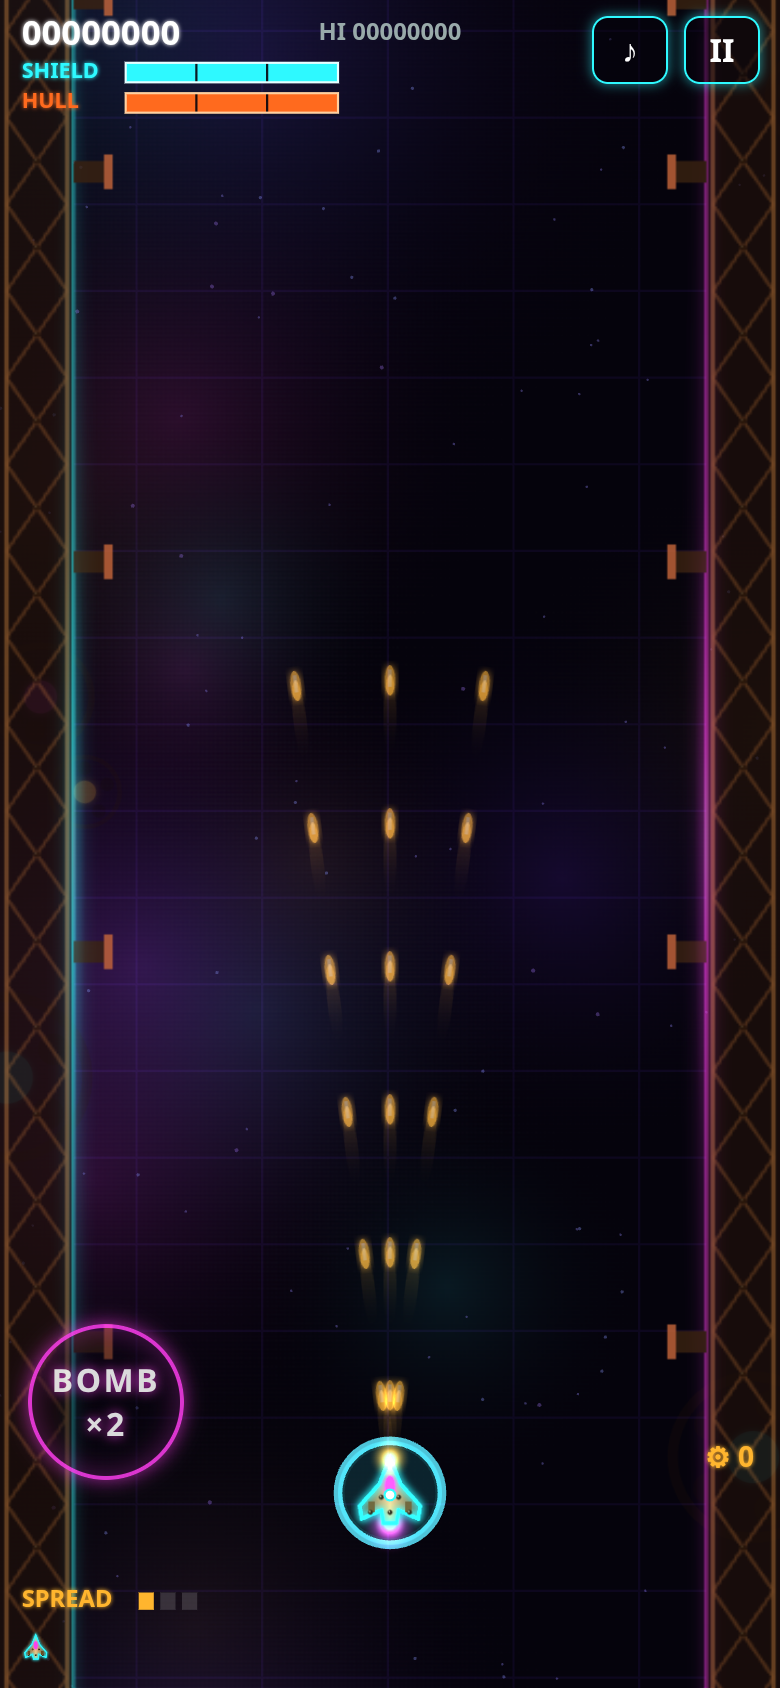
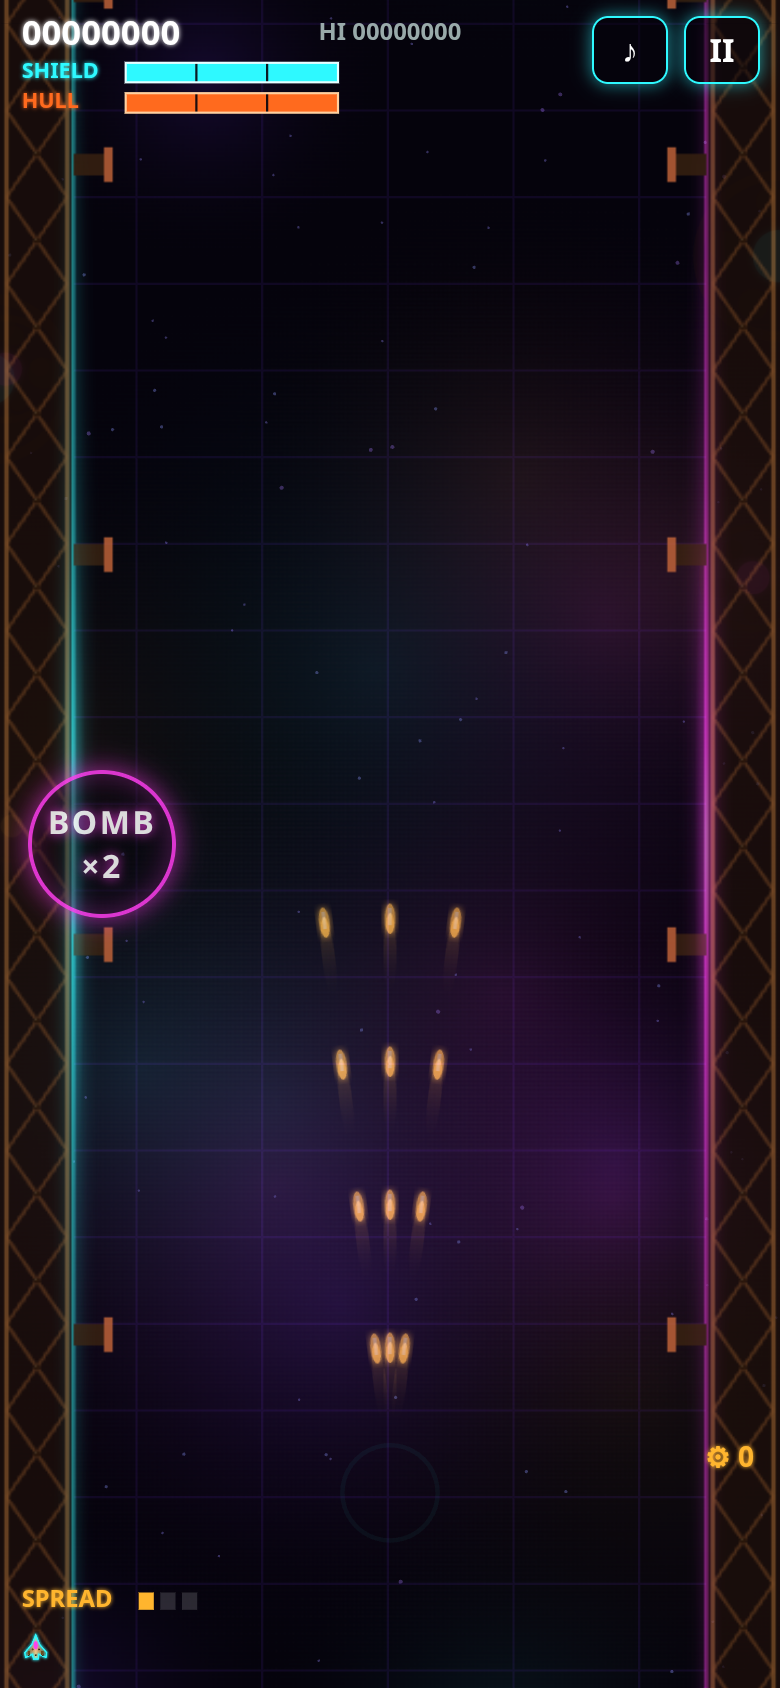
v1.1.1: BOMB button mid-left (vertically centred, scales, safe margins), reset saved side

diff --git a/index.html b/index.html
@@ -1,5 +1,5 @@
 <!doctype html>
-<!-- NEON GEARSTORM v1.1 — © 2026 Rainwater Games (Jeff Rainwater). All rights reserved. -->
+<!-- NEON GEARSTORM v1.1.1 — © 2026 Rainwater Games (Jeff Rainwater). All rights reserved. -->
 <html lang="en"><head><meta charset="utf-8">
 <meta name="viewport" content="width=device-width,initial-scale=1,maximum-scale=1,user-scalable=no,viewport-fit=cover">
 <meta name="author" content="Rainwater Games - Jeff Rainwater">
@@ -43,9 +43,9 @@ h2{font-size:38px;margin:0 0 10px;letter-spacing:.12em}
 #hud button{position:fixed;z-index:10;font:inherit;font-weight:bold;color:#fff;background:rgba(5,3,12,.45);cursor:pointer}
 #bPause,#bMute{top:max(8px,env(safe-area-inset-top));width:38px;height:34px;border:1.5px solid #2ef9ff;border-radius:8px;box-shadow:0 0 8px rgba(46,249,255,.5);font-size:14px}
 #bPause{right:10px}#bMute{right:56px}
-#bBomb{left:14px;right:auto;bottom:calc(104px + env(safe-area-inset-bottom,0px));width:78px;height:78px;border-radius:50%;border:2px solid #ff3df0;box-shadow:0 0 14px rgba(255,61,240,.7),inset 0 0 14px rgba(255,61,240,.35);font-size:12px;letter-spacing:.08em;text-shadow:0 0 6px #ff3df0;opacity:.85}
+#bBomb{--bs:clamp(60px,19vmin,96px);left:calc(14px + env(safe-area-inset-left,0px));right:auto;bottom:auto;top:clamp(calc(110px + env(safe-area-inset-top,0px)),calc(50% - var(--bs)/2),calc(100% - var(--bs) - 24px - env(safe-area-inset-bottom,0px)));width:var(--bs);height:var(--bs);border-radius:50%;border:2px solid #ff3df0;box-shadow:0 0 14px rgba(255,61,240,.7),inset 0 0 14px rgba(255,61,240,.35);font-size:clamp(11px,2.9vmin,14px);letter-spacing:.08em;text-shadow:0 0 6px #ff3df0;opacity:.85}
 #bBomb.empty{opacity:.3}
-#bBomb.rside{right:14px;left:auto}
+#bBomb.rside{right:calc(14px + env(safe-area-inset-right,0px));left:auto}
 #bPause,#bMute{box-shadow:0 0 calc(6px + 12px*var(--p,0)) rgba(46,249,255,.6)}#bBomb{box-shadow:0 0 calc(10px + 18px*var(--p,0)) rgba(255,61,240,.75),inset 0 0 14px rgba(255,61,240,.35)}
 .pulse{animation:none;box-shadow:0 0 calc(12px + 18px*var(--p,0)) rgba(46,249,255,.7),inset 0 0 12px rgba(46,249,255,.3)}
 #hangar{justify-content:flex-start;background:rgba(5,3,12,.96);padding-top:max(18px,env(safe-area-inset-top))}
@@ -61,7 +61,7 @@ h2{font-size:38px;margin:0 0 10px;letter-spacing:.12em}
 <div id="splash"><div class="sp-t">RAINWATER GAMES</div><div class="dots"><i></i><i></i><i></i></div><div class="sp-t" style="font-size:10px;color:#889;text-shadow:none">LOADING</div></div>
 <canvas id="c"></canvas>
 <div id="hud" class="hide"><button id="bMute" aria-label="Mute">♪</button><button id="bPause" aria-label="Pause">II</button><button id="bBomb" aria-label="Bomb">BOMB</button></div>
-<div id="title" class="ov hide"><div class="ver" id="ver">v1.1</div>
+<div id="title" class="ov hide"><div class="ver" id="ver">v1.1.1</div>
  <svg class="gear" viewBox="-50 -50 100 100"><g fill="none" stroke="#ffb52e" stroke-width="4"><path d="M-6-46h12l2 10 8 3 8-6 9 8-6 9 3 8 10 2v12l-10 2-3 8 6 8-9 9-8-6-8 3-2 10h-12l-2-10-8-3-8 6-9-9 6-8-3-8-10-2v-12l10-2 3-8-6-9 9-8 8 6 8-3z"/><circle r="16" stroke="#2ef9ff"/><circle r="5" fill="#ff3df0" stroke="none"/></g></svg>
  <h1 class="logo"><span class="a">NEON</span><span class="b">GEARSTORM</span></h1>
  <div class="prod">A RAINWATER GAMES PRODUCTION</div>
@@ -86,5 +86,5 @@ h2{font-size:38px;margin:0 0 10px;letter-spacing:.12em}
  <div class="help" style="font-size:13px;color:#ccd;max-width:320px">NEON GEARSTORM contains flashing lights, strobe effects and rapidly pulsing colors that may trigger seizures for people with photosensitive epilepsy. Stop playing immediately if you feel unwell.</div><br>
  <button class="btn alt tog" id="pRF">REDUCE FLASHING: OFF</button><button class="btn" id="bPhotoOk">CONTINUE</button>
  <div class="help">You can change this any time in SETTINGS.</div></div>
-<script src="build/game.js?v=1.1"></script>
+<script src="build/game.js?v=1.1.1"></script>
 </body></html>

diff --git a/tools/v111bomb.js b/tools/v111bomb.js
@@ -1,0 +1,14 @@
+// v1.1.1 bomb-button check: mid-left (~50% height), safe margins, clear of SHIELD/HULL HUD + bottom HUD + ship, portrait & landscape; old saved RIGHT setting overridden.
+const puppeteer=require('/workspace/cr-test/node_modules/puppeteer-core');const U=process.argv[2]||'http://localhost:8765/';const sleep=ms=>new Promise(r=>setTimeout(r,ms));
+const VPS=[[412,915,'portrait-412x915'],[390,844,'portrait-390x844'],[360,640,'portrait-360x640'],[915,412,'landscape-915x412'],[1024,768,'tablet-1024x768']];
+(async()=>{const b=await puppeteer.launch({executablePath:'/usr/bin/google-chrome',headless:'new',args:['--no-sandbox','--use-angle=swiftshader','--enable-unsafe-swiftshader']});let all=true;const errs=[];
+ for(const [w,h,name] of VPS){const p=await b.newPage();p.on('pageerror',e=>errs.push(e.message));await p.setViewport({width:w,height:h,deviceScaleFactor:2,isMobile:true,hasTouch:true});
+  await p.goto(U,{waitUntil:'load'});await p.evaluate(()=>{localStorage.clear();localStorage.setItem('ngs_photo','1');localStorage.setItem('ngs_bside','R');localStorage.setItem('ngs_bside_mig','1');});
+  await p.goto(U+'?debug=autostart',{waitUntil:'load'});await sleep(500);await p.evaluate(()=>{if(NG.G.state!=='play')NG.startGame();NG.G.bombs=3;});await sleep(2200);
+  const r=await p.evaluate(()=>{const e=document.getElementById('bBomb'),c=document.querySelector('canvas'),q=e.getBoundingClientRect(),cr=c.getBoundingClientRect();const sc=cr.height/NG.H;
+   return {top:Math.round(q.top),bot:Math.round(q.bottom),left:Math.round(q.left),size:Math.round(q.width),mid:+((q.top+q.height/2)/innerHeight).toFixed(3),saved:localStorage.getItem('ngs_bside'),rside:e.classList.contains('rside'),
+    hudBarsBottom:Math.round(cr.top+72*sc),hudTextTop:Math.round(cr.top+(NG.H-58)*sc),shipTop:Math.round(cr.top+(NG.P.y-30)*sc),ver:document.getElementById('ver').textContent,ih:innerHeight,iw:innerWidth};});
+  const ok=!r.rside&&r.saved==='L'&&r.left>=10&&r.left<=30&&Math.abs(r.mid-.5)<=.06&&r.top>=r.hudBarsBottom&&r.bot<=r.hudTextTop&&r.bot<=r.shipTop&&r.bot<=r.ih-10&&r.size>=56;
+  all=all&&ok;console.log((ok?'PASS':'FAIL')+' '+name+' bomb mid-left '+JSON.stringify(r));
+  await p.screenshot({path:'shots/v111-bomb-'+name+'.png'});await p.close();}
+ console.log((errs.length?'FAIL':'PASS')+' no page errors '+JSON.stringify(errs));all=all&&!errs.length;console.log(all?'ALL PASS':'SOME FAIL');await b.close();process.exit(all?0:1);})();

diff --git a/build/game.js b/build/game.js
@@ -1,4 +1,4 @@
-/*! NEON GEARSTORM v1.1 — © 2026 Rainwater Games (Jeff Rainwater). All rights reserved.
+/*! NEON GEARSTORM v1.1.1 — © 2026 Rainwater Games (Jeff Rainwater). All rights reserved.
  *  Unauthorized copying, distribution or modification of this file is prohibited. */
 (()=>{'use strict';
 // ---- sprites.js : pre-rendered neon/steampunk sprites (glow baked once for speed)
@@ -554,7 +554,7 @@ function drawBoss3(e){const sh=e.dying?rnd(-3,3):0,x=e.x+sh,y=e.y,fl=e.fl>0&&e.f
  if(e.ms===5){txt('WHISTLE',x,y-100,COL.cy,10,'center',6);}}
 
 // ---- main.js : game loop, entities, stage script
-const VERSION='v1.1';
+const VERSION='v1.1.1';
 const Q=new URLSearchParams(location.search);
 const DBG=(Q.get('debug')||'').split(',');
 const DBG_BOSS=DBG.includes('boss'),DBG_MID=DBG.includes('mid'),DBG_INV=DBG.includes('inv'),DBG_S2=DBG.includes('stage2'),DBG_B2=DBG.includes('boss2'),DBG_S3=DBG.includes('stage3'),DBG_B3=DBG.includes('boss3'); // v0.3: ?debug=boss no longer silently grants invincibility (root cause of 'red bullets did no damage')
@@ -605,7 +605,7 @@ const P={x:180,y:560,inv:0,dead:0,fireT:0,zapT:0,bank:0};
 // ---------- settings (persisted)
 const SET={rf:lsGet('ngs_rf')==='1',sens:+(lsGet('ngs_sens')||1.3)};
 // v0.5: bomb button side. Default LEFT (left thumb). One-time migration: older saved sides are discarded and reset to left.
-(()=>{if(lsGet('ngs_bside_mig')!=='1'){try{localStorage.removeItem('ngs_bombside');localStorage.removeItem('ngs_bomb_side');}catch(_){}lsSet('ngs_bside','L');lsSet('ngs_bside_mig','1');}})();
+(()=>{if(lsGet('ngs_bside_mig2')!=='1'){try{localStorage.removeItem('ngs_bomb_pos');localStorage.removeItem('ngs_bombpos');}catch(_){}lsSet('ngs_bside','L');lsSet('ngs_bside_mig','1');lsSet('ngs_bside_mig2','1');}if(lsGet('ngs_bside_mig')!=='1'){try{localStorage.removeItem('ngs_bombside');localStorage.removeItem('ngs_bomb_side');}catch(_){}lsSet('ngs_bside','L');lsSet('ngs_bside_mig','1');}})();
 SET.bside=lsGet('ngs_bside')==='R'?'R':'L';
 // ---------- lighting FX: light bursts, color flash, strobe, beat pulse
 const LT=new Pool(48,()=>({x:0,y:0,r:0,c:'am',life:0,max:1}));

diff --git a/src/main.js b/src/main.js
@@ -1,5 +1,5 @@
 // ---- main.js : game loop, entities, stage script
-const VERSION='v1.1';
+const VERSION='v1.1.1';
 const Q=new URLSearchParams(location.search);
 const DBG=(Q.get('debug')||'').split(',');
 const DBG_BOSS=DBG.includes('boss'),DBG_MID=DBG.includes('mid'),DBG_INV=DBG.includes('inv'),DBG_S2=DBG.includes('stage2'),DBG_B2=DBG.includes('boss2'),DBG_S3=DBG.includes('stage3'),DBG_B3=DBG.includes('boss3'); // v0.3: ?debug=boss no longer silently grants invincibility (root cause of 'red bullets did no damage')
@@ -50,7 +50,7 @@ const P={x:180,y:560,inv:0,dead:0,fireT:0,zapT:0,bank:0};
 // ---------- settings (persisted)
 const SET={rf:lsGet('ngs_rf')==='1',sens:+(lsGet('ngs_sens')||1.3)};
 // v0.5: bomb button side. Default LEFT (left thumb). One-time migration: older saved sides are discarded and reset to left.
-(()=>{if(lsGet('ngs_bside_mig')!=='1'){try{localStorage.removeItem('ngs_bombside');localStorage.removeItem('ngs_bomb_side');}catch(_){}lsSet('ngs_bside','L');lsSet('ngs_bside_mig','1');}})();
+(()=>{if(lsGet('ngs_bside_mig2')!=='1'){try{localStorage.removeItem('ngs_bomb_pos');localStorage.removeItem('ngs_bombpos');}catch(_){}lsSet('ngs_bside','L');lsSet('ngs_bside_mig','1');lsSet('ngs_bside_mig2','1');}if(lsGet('ngs_bside_mig')!=='1'){try{localStorage.removeItem('ngs_bombside');localStorage.removeItem('ngs_bomb_side');}catch(_){}lsSet('ngs_bside','L');lsSet('ngs_bside_mig','1');}})();
 SET.bside=lsGet('ngs_bside')==='R'?'R':'L';
 // ---------- lighting FX: light bursts, color flash, strobe, beat pulse
 const LT=new Pool(48,()=>({x:0,y:0,r:0,c:'am',life:0,max:1}));

diff --git a/tools/v05bomb.js b/tools/v05bomb.js
@@ -8,8 +8,8 @@ const puppeteer=require('/workspace/cr-test/node_modules/puppeteer-core');const 
   const sc=cr.height/NG.H;return {left:q.left,right:innerWidth-q.right,bottomGap:innerHeight-q.bottom,top:q.top,w:q.width,cssLeft:cs.left,saved:localStorage.getItem('ngs_bside'),rside:e.classList.contains('rside'),
    hudTextTop:cr.top+(NG.H-58)*sc,state:NG.G.state};});
  console.log(JSON.stringify(r));await p.screenshot({path:'shots/v05-bomb-left.png'});
- const ok=r.cssLeft==='14px'&&!r.rside&&r.saved==='L'&&r.bottomGap>=90&&r.bottomGap<=125&&r.bottomGap>innerHeightGapNeeded(r);
+ const ok=r.cssLeft==='14px'&&!r.rside&&r.saved==='L'&&Math.abs((r.top+r.w/2)/844-.5)<=.06;
  function innerHeightGapNeeded(r){return 0;}
- const noOverlap=r.top+r.w<=r.hudTextTop+1e-6||r.top+r.w<r.hudTextTop+1;console.log((ok?'PASS':'FAIL')+' bomb button LEFT 14px, '+Math.round(r.bottomGap)+'px above bottom, old RIGHT setting migrated');
+ const noOverlap=r.top+r.w<=r.hudTextTop+1e-6||r.top+r.w<r.hudTextTop+1;console.log((ok?'PASS':'FAIL')+' bomb button LEFT 14px, mid-screen (v1.1.1), centre at '+Math.round((r.top+r.w/2)/8.44)+'% height, old RIGHT setting migrated');
  console.log((noOverlap?'PASS':'FAIL')+' no overlap with bottom-left canvas HUD (button bottom '+Math.round(r.top+r.w)+' < HUD text top '+Math.round(r.hudTextTop)+')');
  await b.close();process.exit(ok&&noOverlap?0:1);})();

diff --git a/tools/v05cache.js b/tools/v05cache.js
@@ -15,5 +15,5 @@ const NEW=process.argv[2];const U='https://localhost:8771/';const sleep=ms=>new 
  const t0=Date.now();await p.goto(U,{waitUntil:'load'});const first=await p.evaluate(()=>document.getElementById('ver').textContent);
  let v2=null;for(let i=0;i<40;i++){await sleep(250);try{v2=await p.evaluate(()=>({ver:document.getElementById('ver').textContent,code:window.NG&&NG.UPG.some(u=>u.k==='core')?'v1.0':'old',script:[...document.scripts].map(s=>s.getAttribute('src')).filter(Boolean)[0]}));if(v2.ver==='v1.0'&&v2.code==='v1.0')break;}catch(_){}}
  const ms=Date.now()-t0;console.log('first open: initially',first,'-> settled',JSON.stringify(v2),'after',ms,'ms; navigations',navs.length);
- const pass=v1.ver==='v0.4'&&v1.ctrl&&v2&&v2.ver==='v1.1'&&v2.code==='v1.0'&&/game\.js\?v=1\.1/.test(v2.script);console.log((pass?'PASS':'FAIL')+' stale v0.4 client (SW + max-age=600 HTTP cache) upgrades to v1.1 on the first open');
+ const pass=v1.ver==='v0.4'&&v1.ctrl&&v2&&v2.ver==='v1.1.1'&&v2.code==='v1.0'&&/game\.js\?v=1\.1\.1/.test(v2.script);console.log((pass?'PASS':'FAIL')+' stale v0.4 client (SW + max-age=600 HTTP cache) upgrades to v1.1.1 on the first open');
  await b.close();cp.execSync('rm -rf '+dir);cp.execSync('ln -sfn old /tmp/ngsc/live');process.exit(pass?0:1);})();

diff --git a/sw.js b/sw.js
@@ -1,6 +1,6 @@
 /*! NEON GEARSTORM — © 2026 Rainwater Games (Jeff Rainwater). All rights reserved. */
 // v0.5: network-first that BYPASSES the HTTP cache (GitHub Pages sends max-age=600), so new deploys show on the first open.
-const C='ngs-v1.1';const F=['./','index.html','build/game.js?v=1.1','manifest.webmanifest','icon.svg','icon-192.png','icon-512.png'];
+const C='ngs-v1.1.1';const F=['./','index.html','build/game.js?v=1.1.1','manifest.webmanifest','icon.svg','icon-192.png','icon-512.png'];
 self.addEventListener('install',e=>{e.waitUntil(caches.open(C).then(c=>c.addAll(F.map(u=>new Request(u,{cache:'no-store'})))).then(()=>self.skipWaiting()));});
 self.addEventListener('activate',e=>{e.waitUntil(caches.keys().then(k=>{const old=k.filter(x=>x!==C);return Promise.all(old.map(x=>caches.delete(x))).then(()=>self.clients.claim()).then(()=>{
  // upgrading from an older build: reload any open window so a stale page (old index.html / game.js) is replaced right away

diff --git a/tools/build.js b/tools/build.js
@@ -1,7 +1,7 @@
 // Build: concatenate src/*.js into one IIFE bundle at build/game.js
 const fs=require('fs'),path=require('path');const root=path.join(__dirname,'..');
 const order=['sprites.js','audio.js','stage2.js','stage3.js','main.js'];
-const V='1.1';
+const V='1.1.1';
 const hdr='/*! NEON GEARSTORM v'+V+' — © 2026 Rainwater Games (Jeff Rainwater). All rights reserved.\n *  Unauthorized copying, distribution or modification of this file is prohibited. */\n';
 const body=order.map(f=>fs.readFileSync(path.join(root,'src',f),'utf8')).join('\n');
 fs.mkdirSync(path.join(root,'build'),{recursive:true});

diff --git a/README.md b/README.md
@@ -1,4 +1,4 @@
-# NEON GEARSTORM (working title) — v1.1
+# NEON GEARSTORM (working title) — v1.1.1
 
 A neon + steampunk vertical shoot-'em-up for phones (PWA), by **Rainwater Games**.
 Play: https://rainwatergames.github.io/neon-gearstorm/
@@ -7,6 +7,9 @@ Play: https://rainwatergames.github.io/neon-gearstorm/
 - Debug: `?debug=boss` (jump to boss, invincible, max weapon), `?debug=mid`, `?debug=inv`, add `laser`/`tesla`, `autostart`, `stage2`, `boss2`, `stage3`, `boss3`, `s2only` (end the run after boss 2).
 
 © 2026 Rainwater Games (Jeff Rainwater). All rights reserved. See LICENSE — not open source.
+
+## v1.1.1
+- Touch BOMB button moved to mid-left (vertically centred, scales 60–96px with screen, safe-area aware, clamped clear of SHIELD/HULL bars and the bottom HUD) in portrait and landscape. Saved bomb-side settings are reset to LEFT once. Test: `node tools/v111bomb.js <url>`.
 
 ## v1.1 — Stage 3: Speed Run Rail Chase
 - After the Iron Foundry boss the run continues into Stage 3: ~2x scroll sold by thin cyan/purple speed rails and motion-blurred ties (never round/red), chasing an armored steampunk train on twisting neon track.
